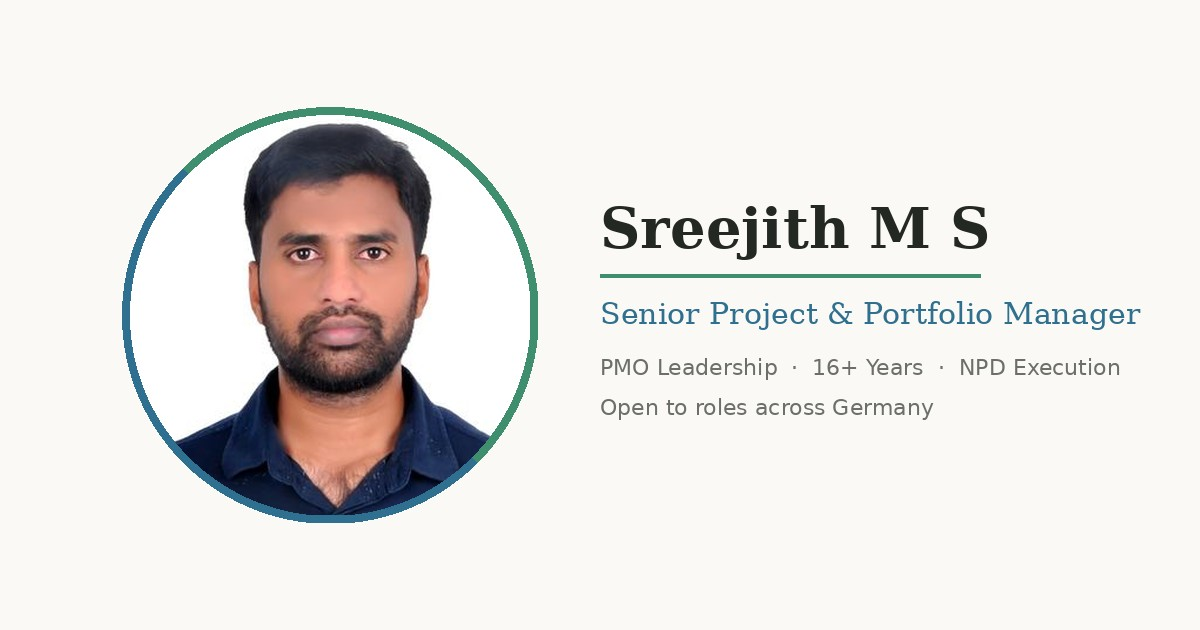
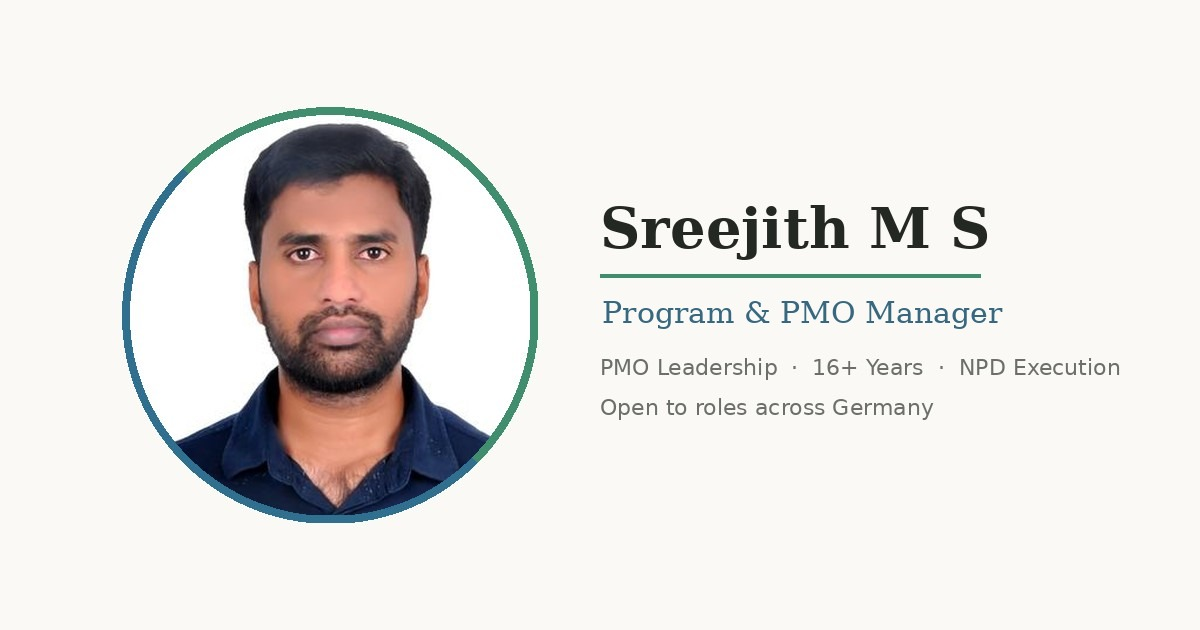
Add files via upload

Changed region(s): [[0.4933, 0.4825, 0.9558, 0.5127]]

diff --git a/index.html b/index.html
@@ -4,10 +4,10 @@
 <script src="analytics.js"></script>
 <meta charset="UTF-8">
 <meta name="viewport" content="width=device-width, initial-scale=1.0">
-<title>Sreejith M S — Senior Project & Program Manager</title>
+<title>Sreejith M S — Program & PMO Manager</title>
 <meta name="description" content="16+ years in project and program delivery, portfolio governance, automotive NPD, and strategic sourcing. Eligible to work in Germany.">
 <meta property="og:type" content="profile">
-<meta property="og:title" content="Sreejith M S — Senior Project & Program Manager">
+<meta property="og:title" content="Sreejith M S — Program & PMO Manager">
 <meta property="og:description" content="Project delivery, portfolio governance, automotive NPD, and strategic sourcing across automotive, industrial & tech sectors.">
 <meta property="og:image" content="https://smsmech-maker.github.io/sreejith-portfolio/og_banner.jpg">
 <meta property="og:image:width" content="1200">
@@ -15,7 +15,7 @@
 <meta property="og:url" content="https://smsmech-maker.github.io/sreejith-portfolio/index.html">
 <meta property="og:site_name" content="Sreejith M S — Portfolio">
 <meta name="twitter:card" content="summary_large_image">
-<meta name="twitter:title" content="Sreejith M S — Senior Project & Program Manager">
+<meta name="twitter:title" content="Sreejith M S — Program & PMO Manager">
 <meta name="twitter:description" content="Project delivery, portfolio governance, automotive NPD, and strategic sourcing across automotive, industrial & tech sectors.">
 <meta name="twitter:image" content="https://smsmech-maker.github.io/sreejith-portfolio/og_banner.jpg">
 <link rel="preconnect" href="https://fonts.googleapis.com">
@@ -273,7 +273,7 @@
       <div class="hero-text">
         <div class="eyebrow">Engineering · Program Delivery · Portfolio Governance</div>
         <h1>Sreejith M S</h1>
-        <div class="title-line">Senior Project &amp; Program Manager · PMO &amp; Portfolio Governance · Automotive NPD</div>
+        <div class="title-line">Program &amp; PMO Manager · Portfolio Governance · Automotive NPD</div>
 
         <div class="contact-row">
           <span>📱 +49 170 6693662</span>
@@ -295,7 +295,7 @@
     </div>
 
     <p class="lede" style="margin-top:26px;">
-      Project and portfolio manager with 16+ years of experience across automotive, industrial manufacturing,
+      Program and PMO manager with 16+ years of experience across automotive, industrial manufacturing,
       and technology. Led NPD governance, resource planning, and delivery for a portfolio of 64+ projects at
       UnoMinda, including 15 launches into serial production. More recently, managed PMO continuity, financial
       reporting, and the Accolade-to-Planisware migration during a corporate carve-out. Experienced with SAP,
@@ -365,7 +365,7 @@
         <p>Managed domestic and China-based sourcing, supplier feasibility, cost, capacity, and onboarding; improved FTR from 65% to 87% and vendor productivity by 15%.</p>
         <details class="evidence">
           <summary>View supporting example</summary>
-          <div class="evidence-body"><p>Onboarded and scaled an aluminium-forging supplier to 90% quality and delivery efficiency through structured feasibility and development work.</p><a href="#job-gabriel">See Gabriel India experience →</a></div>
+          <div class="evidence-body"><p>Onboarded and scaled an aluminum-forging supplier to 90% quality and delivery efficiency through structured feasibility and development work.</p><a href="#job-gabriel">See Gabriel India experience →</a></div>
         </details>
       </div>
     </div>
@@ -441,7 +441,7 @@
         <ul>
           <li>Drove supplier integration for new product development across key commodities, aligning vendor capability with technical requirements</li>
           <li>Managed end-to-end sourcing: feasibility assessments, cost finalization, capacity reviews, and vendor onboarding (domestic and China-based)</li>
-          <li>Onboarded and scaled an aluminium forging supplier, achieving 90% quality and delivery efficiency at competitive cost</li>
+          <li>Onboarded and scaled an aluminum forging supplier, achieving 90% quality and delivery efficiency at competitive cost</li>
           <li>Improved FTR performance from 65% to 87% and reduced rejection rates on new products below 10%</li>
           <li>Designed and implemented manufacturing process improvements via VA/VE and ZBC initiatives; increased vendor productivity 15% through Value Stream Mapping (VSM)</li>
         </ul>
@@ -525,7 +525,7 @@
 
 <footer id="contact">
   <div class="wrap">
-    <p>Sreejith M S — Senior Project &amp; Program Manager</p>
+    <p>Sreejith M S — Program &amp; PMO Manager</p>
     <p style="margin-top:8px;">
       <a href="mailto:sreejithmohanakumaran2k10@gmail.com" onclick="return openMail('sreejithmohanakumaran2k10@gmail.com');">sreejithmohanakumaran2k10@gmail.com</a>
       &nbsp;·&nbsp; +49 170 6693662
